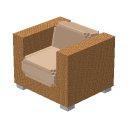
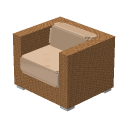
Add a rear wall to the sofa frame and seat the back cushion against it

diff --git a/tests/tools/sofa.test.ts b/tests/tools/sofa.test.ts
@@ -42,6 +42,22 @@ assert len(m.tilt.compound_cubes(m.cubes(1, 1))) == m.ASSEMBLIES['throw_cushion'
 assert m.SEAT_POSITION[1] == m.SEAT_TOP/16-0.24
 `);
   });
+  it("builds a rear wall as thick as the arms and as tall as them, between the arms, at both widths", async () => {
+    await run(`
+for w in (1, 2):
+    h = m.half_width(w)
+    frame = m.build_frame(w)
+    arms = [c for c in frame if abs(c['size'][0]-m.ARM) < 1e-9]
+    assert len(arms) == 2
+    walls = [c for c in frame if abs(c['origin'][2]+c['size'][2]-m.Z1) < 1e-9 and c['size'][0] > m.ARM+1]
+    tall = [c for c in walls if abs(c['origin'][1]+c['size'][1]-m.ARM_TOP) < 1e-9]
+    assert len(tall) == 1
+    wall = tall[0]
+    assert abs(wall['size'][2]-m.ARM) < 1e-9
+    assert abs(wall['origin'][0]-(-h+m.ARM)) < 1e-9 and abs(wall['size'][0]-(2*h-2*m.ARM)) < 1e-9
+    assert abs(wall['origin'][1]+wall['size'][1]-m.ARM_TOP) < 1e-9
+`);
+  });
   it("rejects widths outside the supported single and double variants", async () => {
     await run(`
 for width in (0, 3, -1, True, 1.5):

diff --git a/tools/gen_sofa.py b/tools/gen_sofa.py
@@ -18,17 +18,17 @@ ATLAS_SIZE = 1024
 # The photo's strands are orange and the gaps between them stay warm and light, so all four colors of
 # the shared amber palette are replaced (strand, light, dark, gap); only the weave geometry is inherited.
 SOFA_WEAVE = dataclasses.replace(
-    wicker.PALETTE_BLACK, columns=4, strand=(206, 150, 88), light=(226, 172, 110),
-    dark=(178, 122, 70), gap=(150, 102, 58))
-TEXELS_PER_PIXEL = 16
+    wicker.PALETTE_BLACK, columns=4, strand=(190, 136, 86), light=(208, 156, 102),
+    dark=(160, 110, 68), gap=(126, 86, 52))
+TEXELS_PER_PIXEL = 32
 SEAT_TOP = 7.8
 SEAT_POSITION = (0, SEAT_TOP / 16 - 0.24, -0.1)
-FOOT = 1.0
-ARM = 3.0
+FOOT = 0.7
+ARM = 2.3
 Z0, Z1 = -6.6, 6.6
 RAIL_TOP = 4.4
 ARM_TOP = 11.8
-BACK_TOP = 10.6
+WALL = ARM
 PALETTE = {
     "beige": (222, 190, 160, 255),
     "piping": (204, 170, 140, 255),
@@ -66,7 +66,8 @@ def build_frame(width_cells):
         box((-h, FOOT, Z0), (ARM, ARM_TOP - FOOT, depth), "wicker"),
         box((h - ARM, FOOT, Z0), (ARM, ARM_TOP - FOOT, depth), "wicker"),
         box((-h + ARM, FOOT, Z0), (2*h - 2*ARM, RAIL_TOP - FOOT, depth), "wicker"),
-        box((-h + ARM, RAIL_TOP, Z1 - 2.2), (2*h - 2*ARM, BACK_TOP - RAIL_TOP, 2.2), "wicker"),
+        # Rear wall between the arms, as tall as the arms: the back cushion stands against it.
+        box((-h + ARM, RAIL_TOP, Z1 - WALL), (2*h - 2*ARM, ARM_TOP - RAIL_TOP, WALL), "wicker"),
     ]
 
 
@@ -92,9 +93,12 @@ def build_cushions(width_cells, throw_cushions=0):
         x = -h + ARM + 0.05 + i * inner / width_cells
         w = inner / width_cells - 0.1
         # The seat sits in the opening and overhangs the front rail like the photo's thick cushion.
-        parts += pillow((x, RAIL_TOP - 0.2, Z0 - 0.6), (w, SEAT_TOP - RAIL_TOP + 0.2, 11.4), edge=0.9)
-        back = pillow((x, SEAT_TOP - 1.0, 0.8), (w, 6.0, 4.4), edge=1.0)
-        parts += tilt.tilt_assembly(back, (0, SEAT_TOP - 1.0, 0.8), "x", -12)
+        # One thick pad resting on the straight front band, its front nearly flush with the frame.
+        parts += pillow((x, RAIL_TOP, Z0 - 0.3), (w, SEAT_TOP - RAIL_TOP, Z1 - WALL - Z0 + 0.3), edge=0.5)
+        # A plump pad filling the width, leaning against the rear wall and rising above it.
+        back_z = Z1 - WALL - 3.5
+        back = pillow((x, SEAT_TOP - 0.4, back_z), (w, 4.9, 3.5), edge=0.9)
+        parts += tilt.tilt_assembly(back, (0, SEAT_TOP - 0.4, back_z), "x", -8)
     # The single sofa has no throw cushion; the double sofa keeps its two.
     throws = []
     for k in range(throw_cushions):
